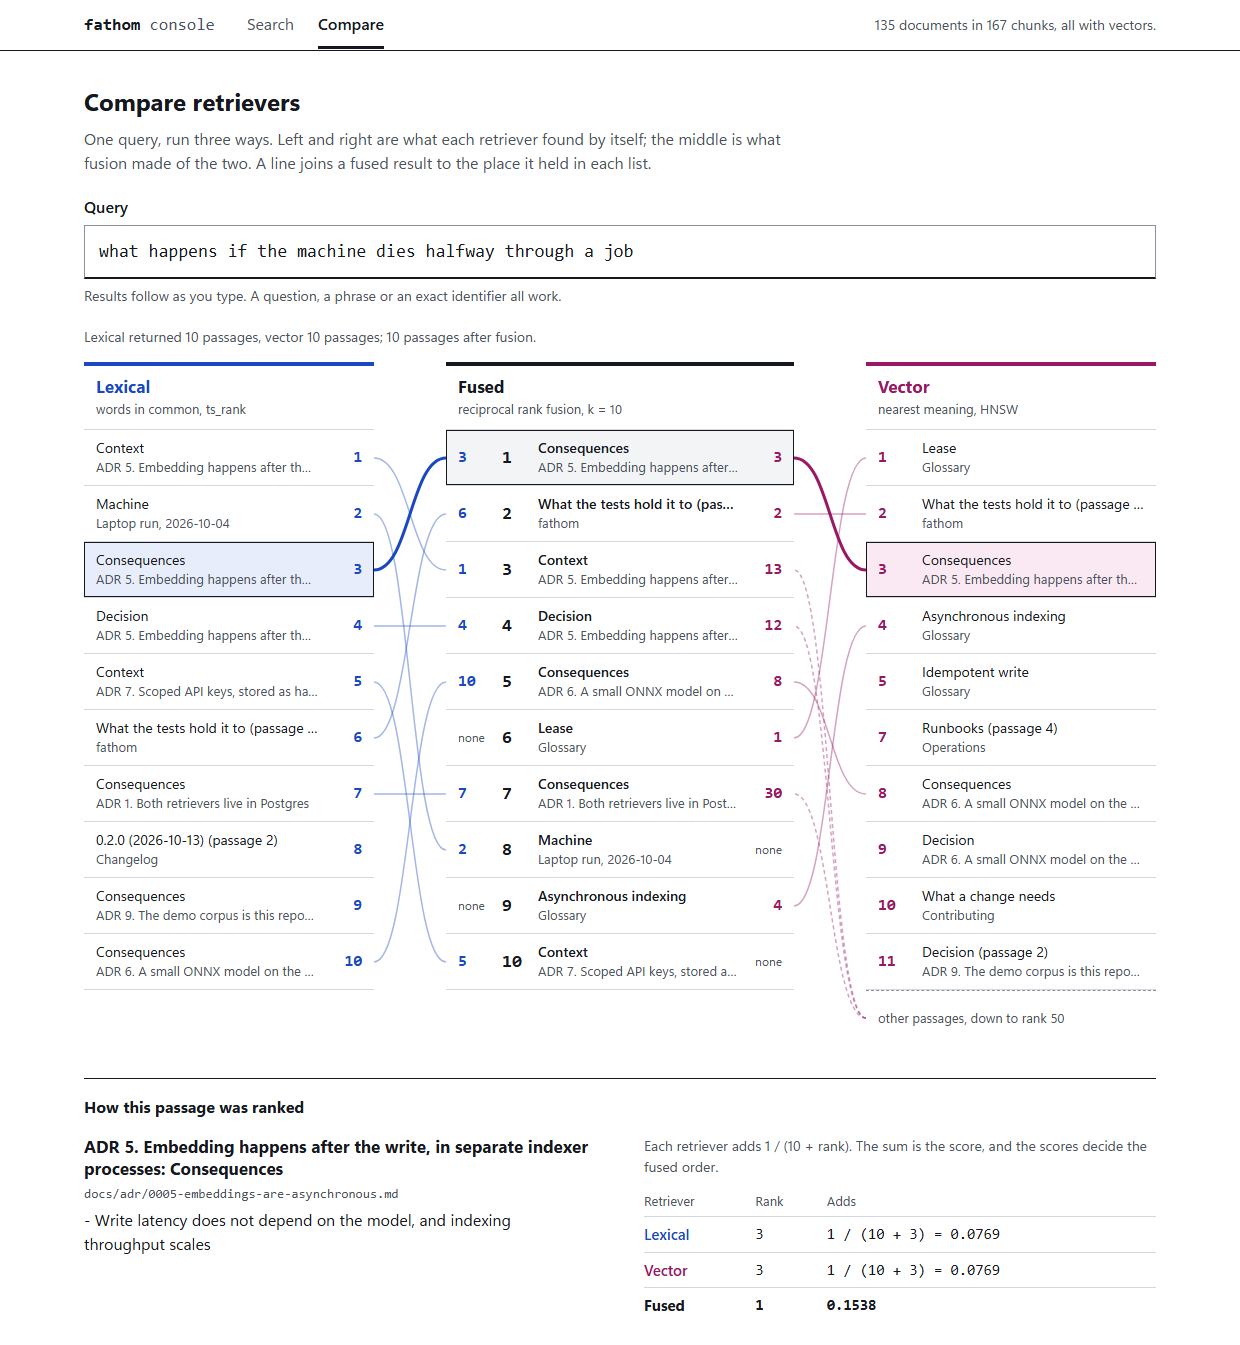
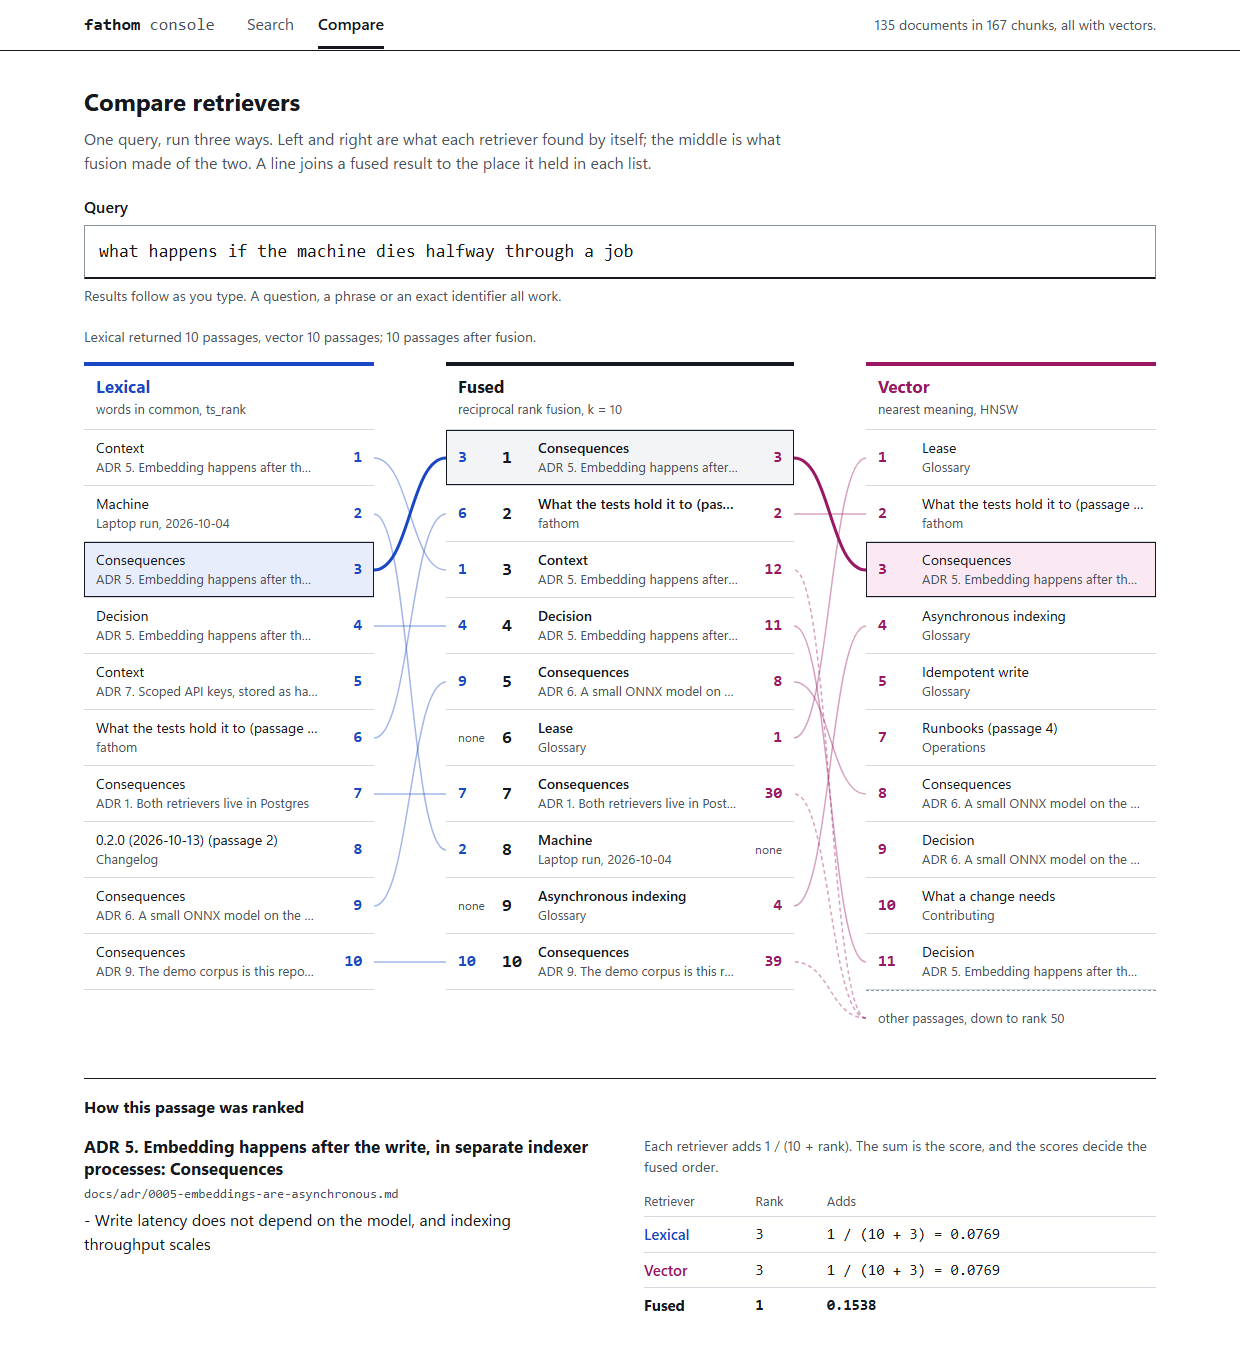
test(web): one axe journey per view, and the measured numbers as they are now
The single journey that ran axe over six states took 32.5 seconds once on a
loaded machine, past the 30 second limit for a test. Each state is now a test
of its own, so a slow run times out on none of them and a violation names the
view it is in.

README and ADR 10 carry the final counts and the range the largest contentful
paint took over six Lighthouse runs. The screenshot is of the corpus as
committed.

diff --git a/web/e2e/journeys.spec.ts b/web/e2e/journeys.spec.ts
@@ -426,30 +426,58 @@ test('a request that gets no answer is told apart from an error', async ({ page 
   await expect(alert).toContainText('Check the connection, then search again.')
 })
 
-test('every view passes axe', async ({ page }) => {
-  await page.goto('/')
-  await expect(page.getByRole('button', { name: NUMBER })).toBeVisible()
-  await expect(indexStatus(page)).toContainText('all with vectors')
-  await axe(page)
+// One test per state, so that a slow machine runs out of time on none of them and a violation names its view.
+const views: { name: string; open: (page: Page) => Promise<void> }[] = [
+  {
+    name: 'the search view before a query',
+    open: async (page) => {
+      await page.goto('/')
+      await expect(page.getByRole('button', { name: NUMBER })).toBeVisible()
+      await expect(indexStatus(page)).toContainText('all with vectors')
+    },
+  },
+  {
+    name: 'the search view with results',
+    open: async (page) => {
+      await page.goto(address('/', QUESTION))
+      await expect(results(page)).toHaveCount(10)
+    },
+  },
+  {
+    name: 'the search view with no results',
+    open: async (page) => {
+      await page.goto(address('/', PARAPHRASE, 'lexical'))
+      await expect(page.getByRole('heading', { name: 'Nothing matched' })).toBeVisible()
+    },
+  },
+  {
+    name: 'the comparison',
+    open: async (page) => {
+      await page.goto(address('/compare', QUESTION))
+      await expect(column(page, 'Fused').getByRole('button')).toHaveCount(10)
+    },
+  },
+  {
+    // One lexical hit, and a fused result that comes from below the vector list's rows.
+    name: 'the comparison when the lists are uneven',
+    open: async (page) => {
+      await page.goto(address('/compare', NUMBER))
+      await expect(column(page, 'Lexical').getByRole('button')).toHaveCount(1)
+    },
+  },
+  {
+    name: 'the comparison on a narrow screen',
+    open: async (page) => {
+      await page.setViewportSize({ width: 390, height: 800 })
+      await page.goto(address('/compare', QUESTION))
+      await expect(column(page, 'Fused').getByRole('button')).toHaveCount(10)
+    },
+  },
+]
 
-  await page.goto(address('/', QUESTION))
-  await expect(results(page)).toHaveCount(10)
-  await axe(page)
-
-  await page.goto(address('/', PARAPHRASE, 'lexical'))
-  await expect(page.getByRole('heading', { name: 'Nothing matched' })).toBeVisible()
-  await axe(page)
-
-  await page.goto(address('/compare', QUESTION))
-  await expect(column(page, 'Fused').getByRole('button')).toHaveCount(10)
-  await axe(page)
-
-  // The number has one lexical hit and a fused result that comes from below the vector list's rows.
-  await page.goto(address('/compare', NUMBER))
-  await expect(column(page, 'Lexical').getByRole('button')).toHaveCount(1)
-  await axe(page)
-
-  await page.setViewportSize({ width: 390, height: 800 })
-  await expect(column(page, 'Fused').getByRole('button')).toHaveCount(10)
-  await axe(page)
-})
+for (const view of views) {
+  test(`axe finds nothing wrong with ${view.name}`, async ({ page }) => {
+    await view.open(page)
+    await axe(page)
+  })
+}

diff --git a/docs/adr/0010-the-browser-client.md b/docs/adr/0010-the-browser-client.md
@@ -54,9 +54,9 @@ and checks that no element was created from them.
 - A change to a response field cannot merge unnoticed: the contract job, the type-check or both fail, as above.
 - The first load of the search view is 80.2 kB of script and style, gzipped, of which Zod and the query library are
   about 36 kB; the comparison view adds 4.95 kB (`npm run size`, which fails the build above 88 kB and 6 kB). Lighthouse
-  on the built page, mobile profile with simulated throttling, three runs: performance 0.98, accessibility 1.0,
-  largest contentful paint 2.2 s, layout shift 0 (`npm run lighthouse`, which fails below 0.95 and 1.0 and above 2.5 s
-  and 0.1).
+  on the built page, mobile profile with simulated throttling, six runs: performance 0.98, accessibility 1.0, largest
+  contentful paint between 2.16 and 2.28 s, layout shift 0 (`npm run lighthouse`, which fails below 0.95 and 1.0 and
+  above 2.5 s and 0.1). The paint is the number closest to its limit.
 - Zod runs without its compiled fast path (`z.config({ jitless: true })`). The fast path uses `new Function`, which
   the content security policy forbids, and Zod's test for whether it may use it is itself reported as a violation.
   The journey `the page loads nothing the content security policy refuses` found that.

diff --git a/README.md b/README.md
@@ -195,12 +195,12 @@ Measured on 2026-10-13 on the laptop in [the benchmark run](docs/benchmark-resul
 |---|---|---|
 | First load of the search view, script and style, gzip (`npm run size`, Node 24) | 80.2 kB | 88 kB |
 | Comparison view, added to that | 4.95 kB | 6 kB |
-| Lighthouse performance, built page, mobile profile, simulated throttling, median of 3 | 0.98 | 0.95 |
-| Lighthouse accessibility | 1.0 | 1.0 |
-| Largest contentful paint, same runs | 2.2 s | 2.5 s |
+| Lighthouse performance, built page, mobile profile, simulated throttling, each of 6 runs | 0.98 | 0.95 |
+| Lighthouse accessibility, same runs | 1.0 | 1.0 |
+| Largest contentful paint, same runs | 2.16 to 2.28 s | 2.5 s |
 | Cumulative layout shift, same runs | 0 | 0.1 |
 | Unit and component tests (`npm run test:unit`) | 67, covering 99.1% of statements and 92.98% of branches | 99% and 92% |
-| Journeys against the compose stack (`npx playwright test`) | 17 in Chromium, 17 in Firefox, 6 against the proxy | any failure, any axe violation |
+| Journeys against the compose stack (`npx playwright test`) | 22 in Chromium, 22 in Firefox, 6 against the proxy | any failure, any axe violation |
 
 ## Limitations
 
